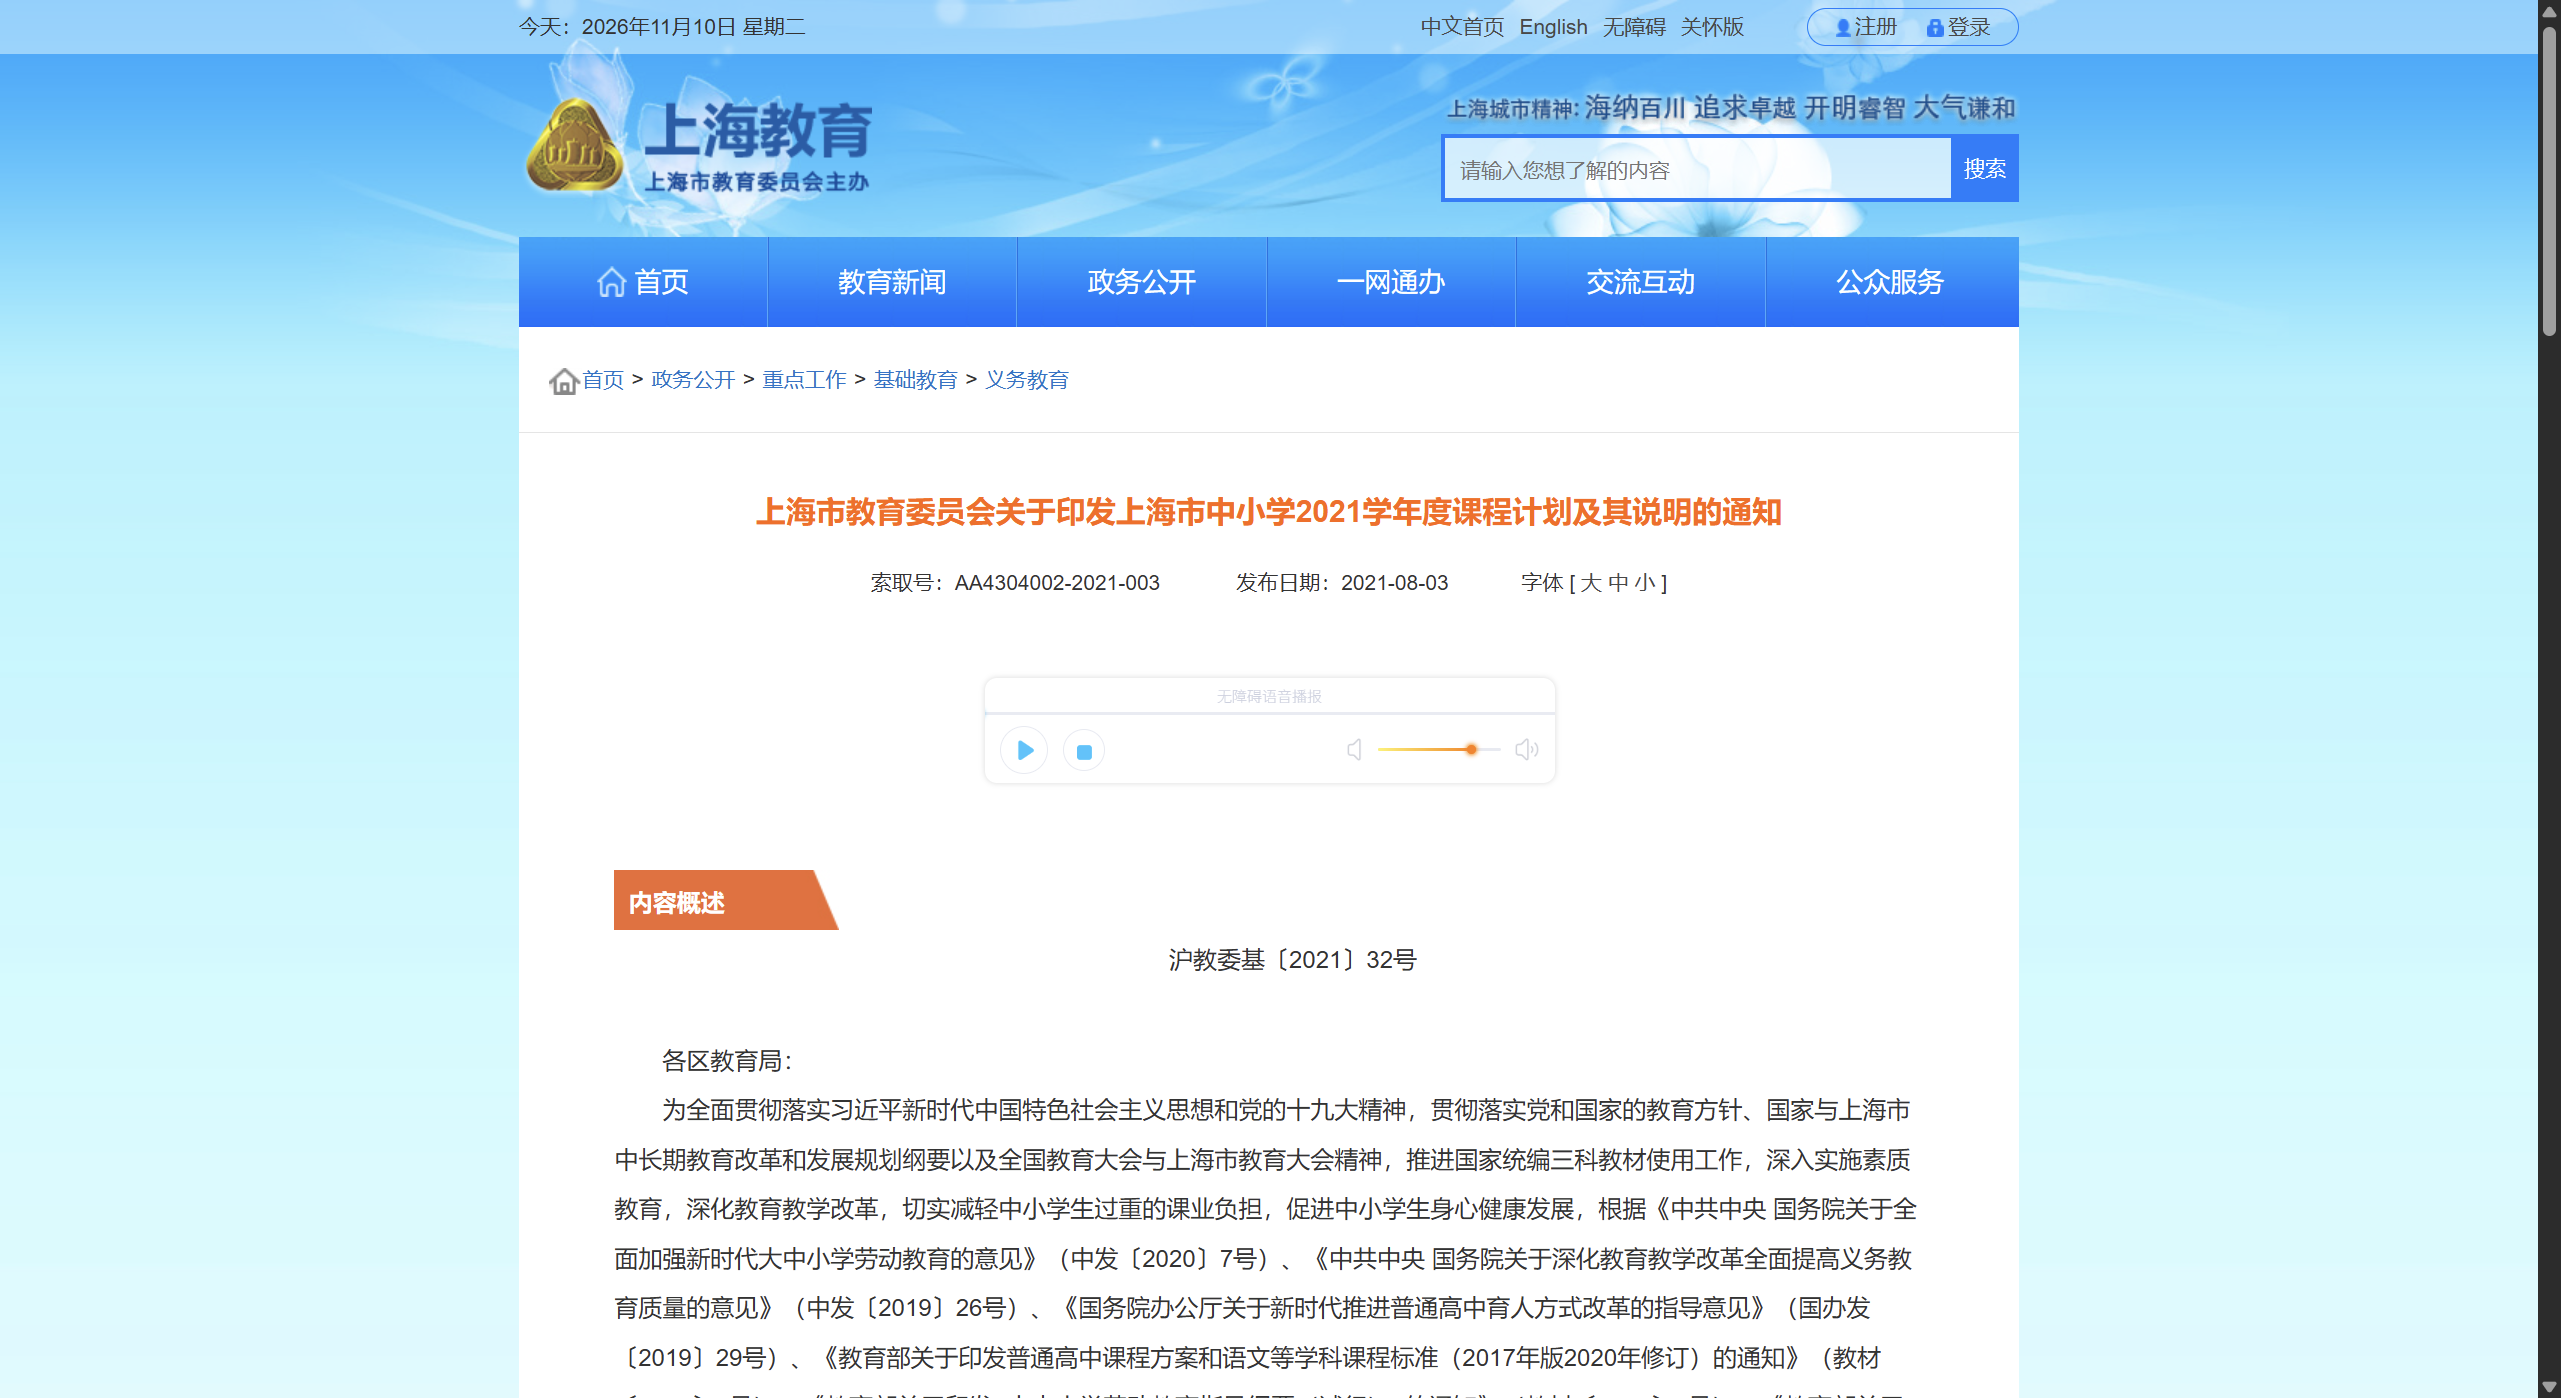
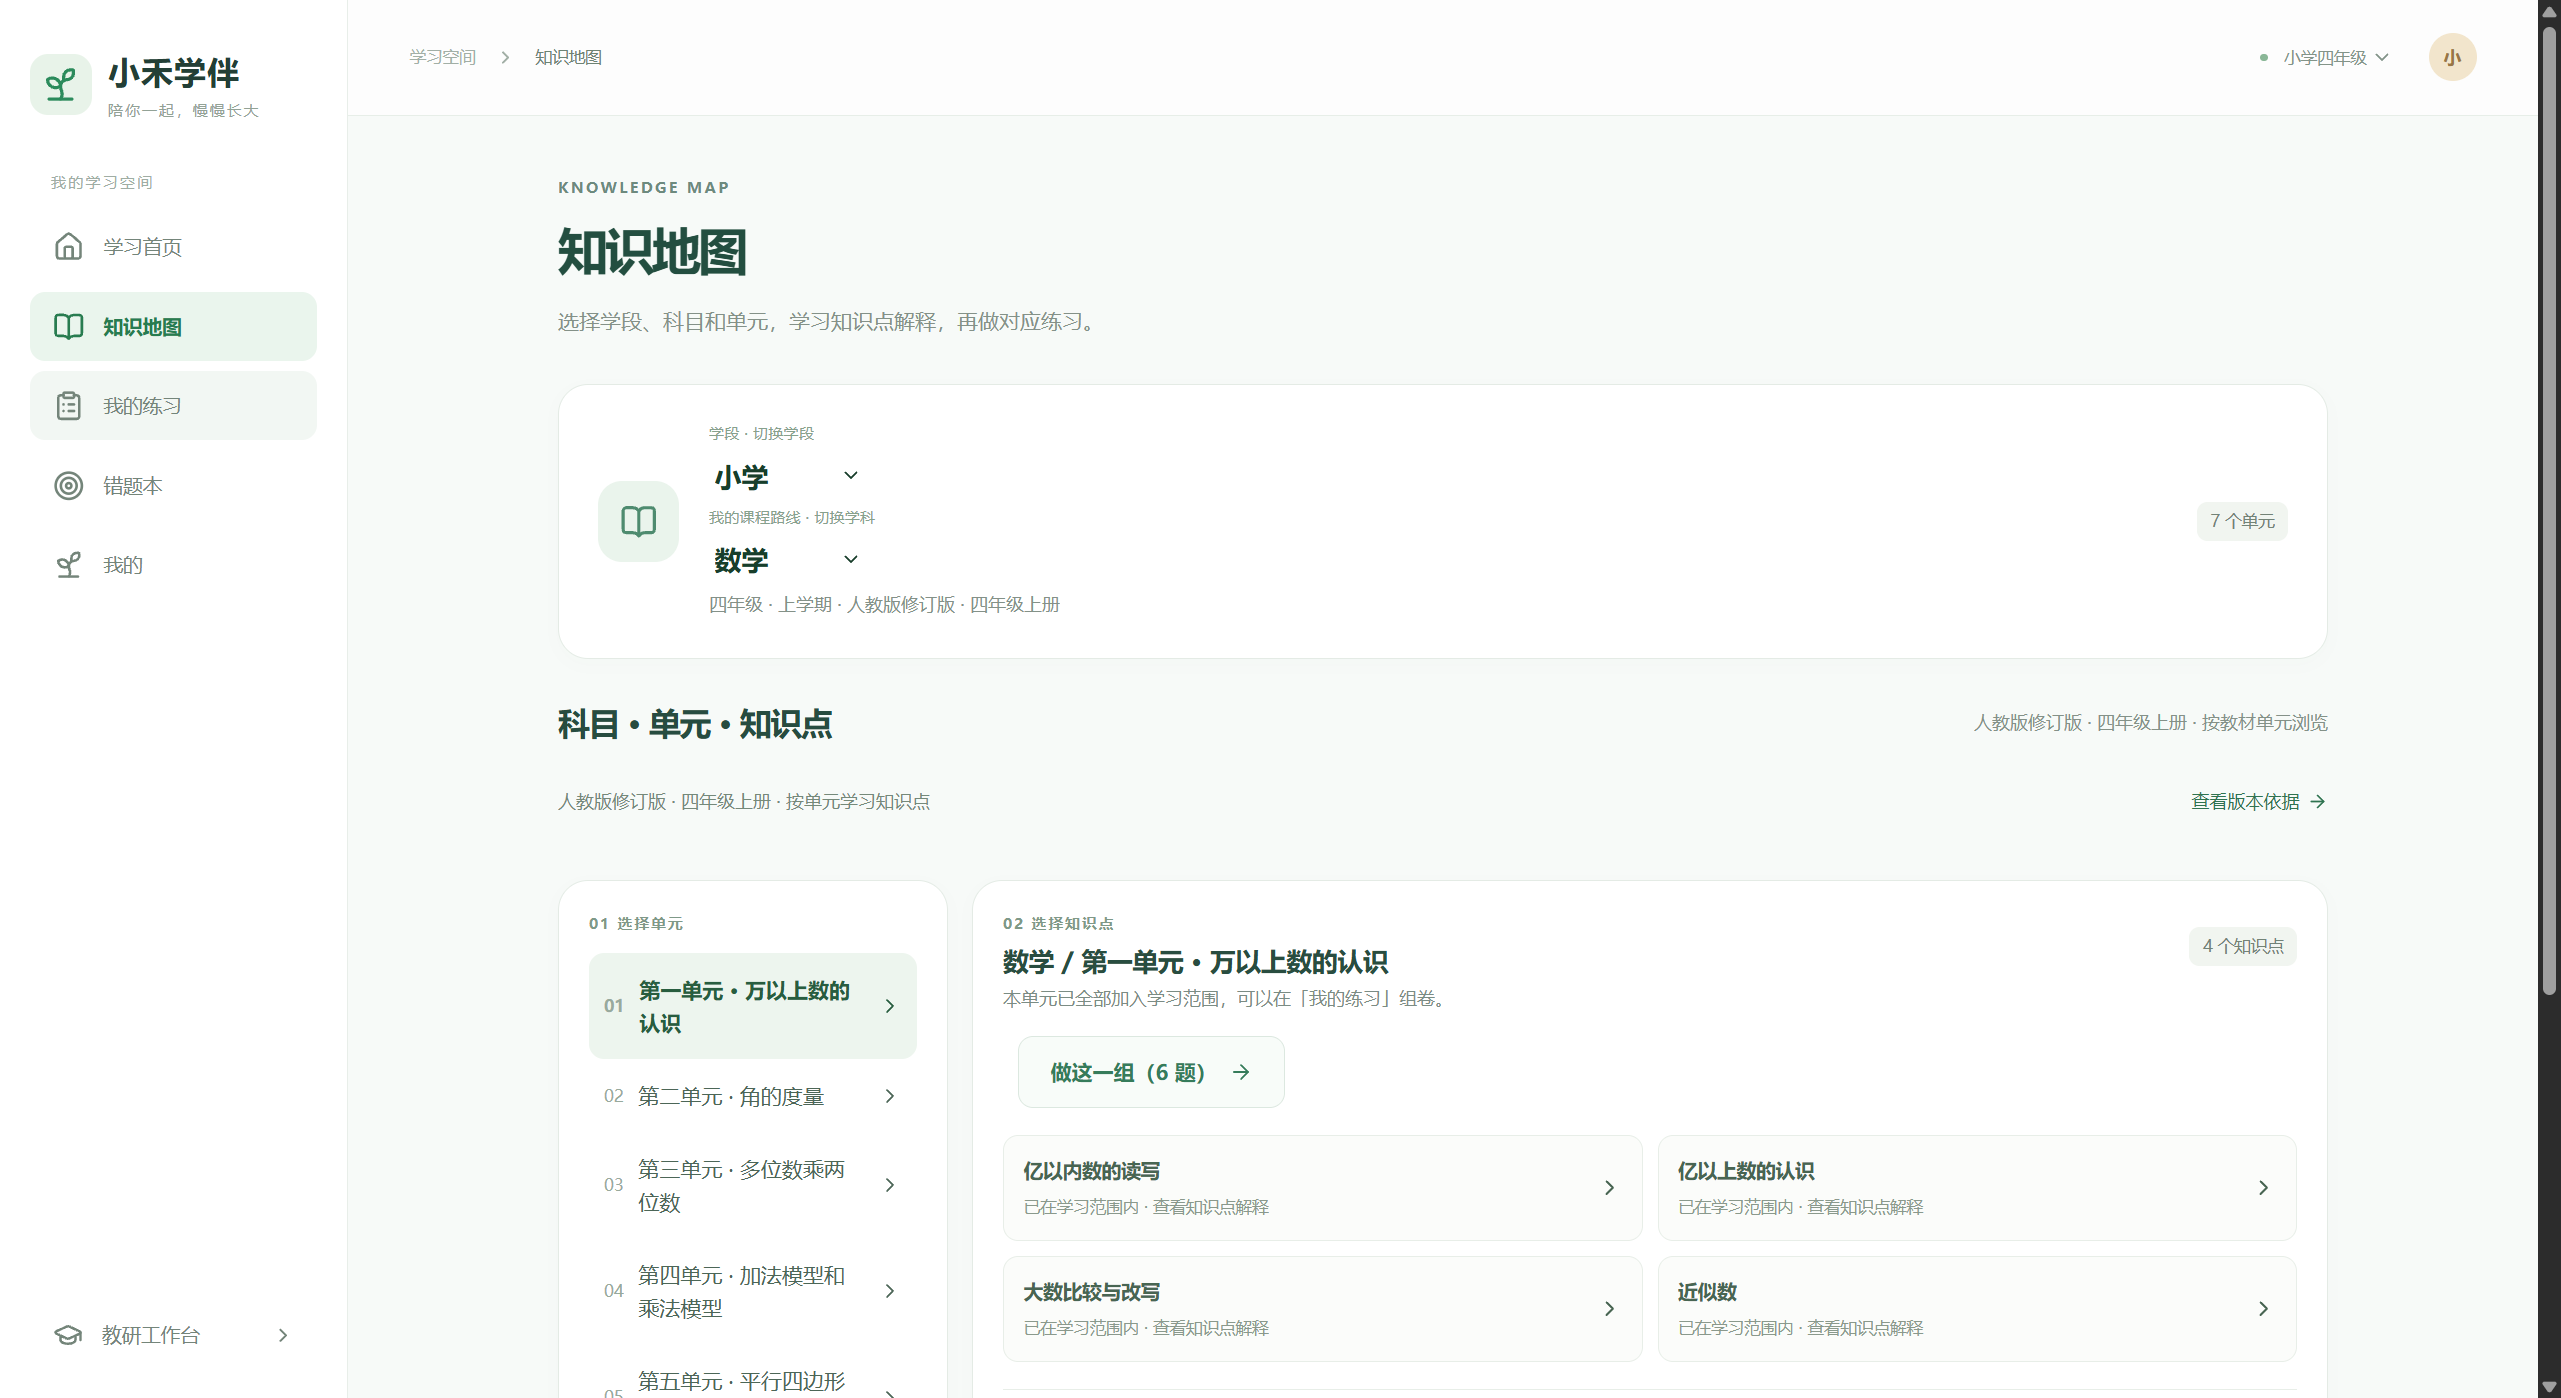
fix(web): 知识地图抬头不再混着「四年级 · 上学期」
切到上海初中/高中时，抬头原本仍显示档案里的「四年级 · 上学期」，
和「上海中考 · 考纲考点」并排出现，自相矛盾。现在非小学学段只显示该学段的
教材说明；小学仍保留档案里的年级与学期。附带更新验收截图。

diff --git a/xiaohe-app/components/student-learning.tsx b/xiaohe-app/components/student-learning.tsx
@@ -125,7 +125,7 @@ function KnowledgePage(props: AppProps) {
   };
   const explanation = point ? (curriculumExplanations[point.id] ?? shanghaiExplanations[point.id]) : undefined;
   return <div className="learn-page"><Heading eyebrow="KNOWLEDGE MAP" title="知识地图" text="选择学段、科目和单元，学习知识点解释，再做对应练习。" />
-    <section className="card learn-route"><div className="learn-section-icon"><BookOpen size={25} /></div><div className="learn-route-copy"><label className="eyebrow" htmlFor="learn-route-stage">学段 · 切换学段</label><select id="learn-route-stage" className="learn-route-subject" value={stageId} onChange={event => switchStage(event.target.value as StageId)} aria-label="切换学段">{stages.map(stage => <option key={stage.id} value={stage.id}>{stage.name}</option>)}</select><label className="eyebrow" htmlFor="learn-route-subject">我的课程路线 · 切换学科</label><select id="learn-route-subject" className="learn-route-subject" value={subject.id} onChange={event => switchSubject(event.target.value)} aria-label="切换学科">{stageSubjects.map(item => <option key={item.id} value={item.id}>{item.name}</option>)}</select><p className="muted">{state.profile.grade} · {state.profile.semester} · {subject.edition}</p>{stageId !== "primary" && <button className="learn-text-link" onClick={() => props.navigate("exam")}><ClipboardList size={15} />真题考情与出处索引</button>}</div><span className="badge">{subject.units.length} 个单元</span></section>
+    <section className="card learn-route"><div className="learn-section-icon"><BookOpen size={25} /></div><div className="learn-route-copy"><label className="eyebrow" htmlFor="learn-route-stage">学段 · 切换学段</label><select id="learn-route-stage" className="learn-route-subject" value={stageId} onChange={event => switchStage(event.target.value as StageId)} aria-label="切换学段">{stages.map(stage => <option key={stage.id} value={stage.id}>{stage.name}</option>)}</select><label className="eyebrow" htmlFor="learn-route-subject">我的课程路线 · 切换学科</label><select id="learn-route-subject" className="learn-route-subject" value={subject.id} onChange={event => switchSubject(event.target.value)} aria-label="切换学科">{stageSubjects.map(item => <option key={item.id} value={item.id}>{item.name}</option>)}</select><p className="muted">{stageId === "primary" ? `${state.profile.grade} · ${state.profile.semester} · ` : ""}{subject.edition}</p>{stageId !== "primary" && <button className="learn-text-link" onClick={() => props.navigate("exam")}><ClipboardList size={15} />真题考情与出处索引</button>}</div><span className="badge">{subject.units.length} 个单元</span></section>
     <div className="learn-section-heading"><h2>科目 · 单元 · 知识点</h2><span className="muted">{subject.edition} · 按教材单元浏览</span></div>
     <div className="learn-catalog-source"><span>{subject.edition} · 按单元学习知识点</span><a href={subject.sourceUrl} target="_blank" rel="noopener noreferrer">查看版本依据 <ArrowRight size={14} /></a></div>
     <div className="learn-catalog-browser"><nav className="card learn-unit-nav" aria-label={`${subject.name}单元`}><span className="eyebrow">01 选择单元</span>{subject.units.map((item, index) => <button key={item.id} type="button" className={item.id === unit.id ? "is-active" : ""} aria-current={item.id === unit.id ? "step" : undefined} onClick={() => { setUnitId(item.id); setPointId(null); setExpanded(null); }}><span>{String(index + 1).padStart(2, "0")}</span>{item.name}<ChevronRight size={16} /></button>)}</nav>
